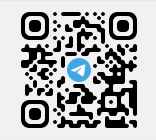
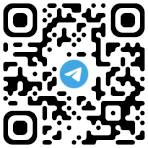
Presentacion 2022

diff --git a/docs/PRESENTACION/presentacion.md b/docs/PRESENTACION/presentacion.md
@@ -1,43 +1,45 @@
 Calendario del curso
 ===============
-![Calendario IES Botet Curso 2021-22](img/CALENDARI2021-22WEB.png "Calendario IES Botet Curso 2021-22")
+![Calendario IES Botet Curso 2022-23](img/CALENDARI2022-23.png "Calendario Botet Curso 2022-23")
 
 Objetivos del módulo
 ===============
++ **Gestiona entornos de virtualización.**
 + Administra servicios de **resolución de nombres**, analizándolos y garantizando la seguridad del servicio.
 + Administra servicios de **configuración automática**, identificándolos y verificando la correcta asignación de los parámetros.
 + Administra **servidores Web** aplicando criterios de configuración y asegurando el funcionamiento del servicio.
 + Administra servicios de **transferencia de archivos** asegurando y limitando el acceso a la información.
 + Administra servidores de **correo electrónico**, aplicando criterios de configuración y garantizando la seguridad del servicio.
++ **Configura y administra escenarios en entornos de cloud computing.**
 + Administra servicios de mensajería instantánea, noticias y listas de distribución, verificando y asegurando el acceso de los usuarios.
 + Administra servicios de audio identificando las necesidades de distribución y adaptando los formatos.
 + Administra servicios de vídeo identificando las necesidades de distribución y adaptando los formatos.
-+ **Gestiona entornos de virtualización.**
+
 
 Contenidos
 ===============
 
-<table style=" margin-left: auto;margin-right: auto;padding:5px; border:1;">
+<table style=" margin-left: auto;margin-right: auto; border:1px solid;">
     <thead>
         <tr>
             <th>1ª Evaluación</th>
             <th>2ª Evaluación</th>
         </tr>
     </thead>
-    <tbody>
-        <tr>
-            <td >Introducción a los Srvs. de red</td>
+    <tbody style="border:1px solid;">
+        <tr style="border:1px solid;">
+            <td >Introducción a los Srvs. de red </td>
             <td >Interconexión de redes. Seguridad.</td>
         </tr>
-        <tr>
-        <td >Asignación dinámmica. DHCP</td>
-        <td>Acceso remoto a ficheros.</td>
+        <tr style="border:1px solid;">
+        <td>Asignación dinámmica. DHCP</td>
+        <td>Servcios de acceso remoto.</td>
         </tr>
-        <tr>
-            <td >Sist. Nombres de dominio. DNS</td>
+        <tr style="border:1px solid;">
+            <td >Sist. Nombres de dominio. DNS&nbsp;&nbsp;</td>
             <td>Servicio de Correo Electrónico</td>
         </tr>
-        <tr>
+        <tr style="border:1px solid;">
         <td >Servidores web</td>
         <td>Otros servicios</td>
         </tr>
@@ -49,30 +51,30 @@ Funcionamiento
 
 + Asistencia **PRESENCIAL**.
 + Si algo no funciona. Se cambia. Se habla...
-+ Ventaja: vamos a usar **herramientas que ya conocemos** y que no nos deben ser complicadas de usar
-  + Aules. → Materiales, tareas, cuestionarios, *foros, Chats*
-  + Webex → [https://gveducacion.webex.com/meet/gimenez_manalb](https://gveducacion.webex.com/meet/gimenez_manalb)
-  + Correo electrónico →[mtgimenez.prof@gmail.com](mailto:mtgimenez.prof@gmail.com)
-  + Telegram (grupo para noticias/anuncios) → [Enlace al canal](https://t.me/joinchat/WRVYnBd3Dh5j1hXV)
++ Ventaja: vamos a usar **herramientas que ya conocemos** y que no nos deben ser complicadas de usar. Además debemos ser capaces de usar cada una correctamente.
+  + Aules. → Materiales, tareas, cuestionarios, *foros, chats, ...*
+  + Correo **@edu.gva.es** que incluye herramientas como:
+    + Onedrive → Almacenamiento en la nube.
+    + Teams → Videoconferencia.
+    + Calendario.
++ Telegram (grupo para noticias/anuncios) → [Enlace al canal](https://t.me/+hSH3fGQkQBs2Mzlk)
 
-      ![QRGrupoTelegram](img/QRGrupoTelegram.png "Enlace al canal de Telegram")
+  ![QRGrupoTelegram](img/QRGrupoTelegram.png "Enlace al canal de Telegram")
 
-+ Las explicaciones teóricas se harán en clase con Webex lo más reducidas posible y a trabajar (en clase o en casa).
-+ Fuera de horario habrá unas horas de tutoría online para resolver dudas.
++ Las explicaciones teóricas se harán en clase con lo más reducidas posible y a trabajar (**en clase y en casa**).
++ A través de los medios anteriores o en clase se podrán resolver las dudas que vayan apareciendo.
 + Los puestos están señalados. NO desplazar equipo o mobiliario.
 + Siempre nos sentaremos en el mismo sitio
 + Evitar tocar la pantalla.
 + Para evitar las pérdidas de información y facilitar tu trabajo tienes dos opciones (**OBLIGATORIO**):
-  + Usa tu propio disco duro externo/portátil SSD.
+  + Usa tu propio disco duro externo/portátil SSD (seguro que será más rápido que el DD del PC del aula).
   + Traer tu propio portátil (En este caso habría que ubicarte en algún puesto concreto. **ATENCIÓN AL USO DE LOS CABLES DE RED**).
-+ **PACIENCIA y RESILIENCIA**
-+ **Atención a las entradas/salidas de clase/patios**
++ **Atención con la UBICACIÓN de tus MV si están en el DD del PC si accedes con tu usuario de Lliurex.**
 
 Evaluación
-===============
+===========
 
-+ Prácticas / Ejercicios=60%. **INCLUYENDO EXÁMENES POR TEMA**
-+ Examen Final Evaluación=40%
-Como máximo el/la alumno-a puede dejar **3 ejercicios/practicas sin entregar** y en el examen final de cada evaluación debe sacar un **mínimo de 3**.
-
-<span style="color: red;">APROBAR LA 1ª EVALUACIÓN SIGNIFICA SUPERAR ESA PARTE DEL MODULO PROFESIONAL</span>.
++ Prácticas / Ejercicios=40%
++ Exámenes por tema/s=30%
++ Examen Final Evaluación=30%
++ Aprobar una evaluación significa superar esa parte del módulo. En caso contrario se debe recuperar en la siguiente evaluación.

diff --git a/docs/index.rst b/docs/index.rst
@@ -1,6 +1,6 @@
-====================
+===========================
 SERVICIOS DE RED E INTERNET
-====================
+===========================
 
 .. toctree::
    :caption: Contenidos
